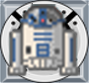
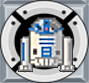
Major Space Theme Revamp (Better quality sprites/Font/Background)

diff --git a/src/LevelSelector.java b/src/LevelSelector.java
@@ -30,7 +30,7 @@ public class LevelSelector extends JPanel {
 		JButton medBtn = new JButton(levelText[1]);
 		JButton hardBtn = new JButton(levelText[2]);
 		JButton backBtn = new JButton(levelText[3]);
-		JCheckBox randomBox = new JCheckBox("Random");
+		JCheckBox randomBox = new JCheckBox(" Random");
 
 		//Set the location of each button
 		int btnWidth = 200;
@@ -50,7 +50,7 @@ public class LevelSelector extends JPanel {
 		hardBtn.setFont(gameFont);
 		backBtn.setFont(gameFont);
 		randomBox.setFont(gameFont);
-		randomBox.setForeground(Color.BLUE);
+		randomBox.setForeground(Color.WHITE);
 
 		//Set button border
 		Border buttonBorder = new LineBorder(Color.BLUE, 2);
